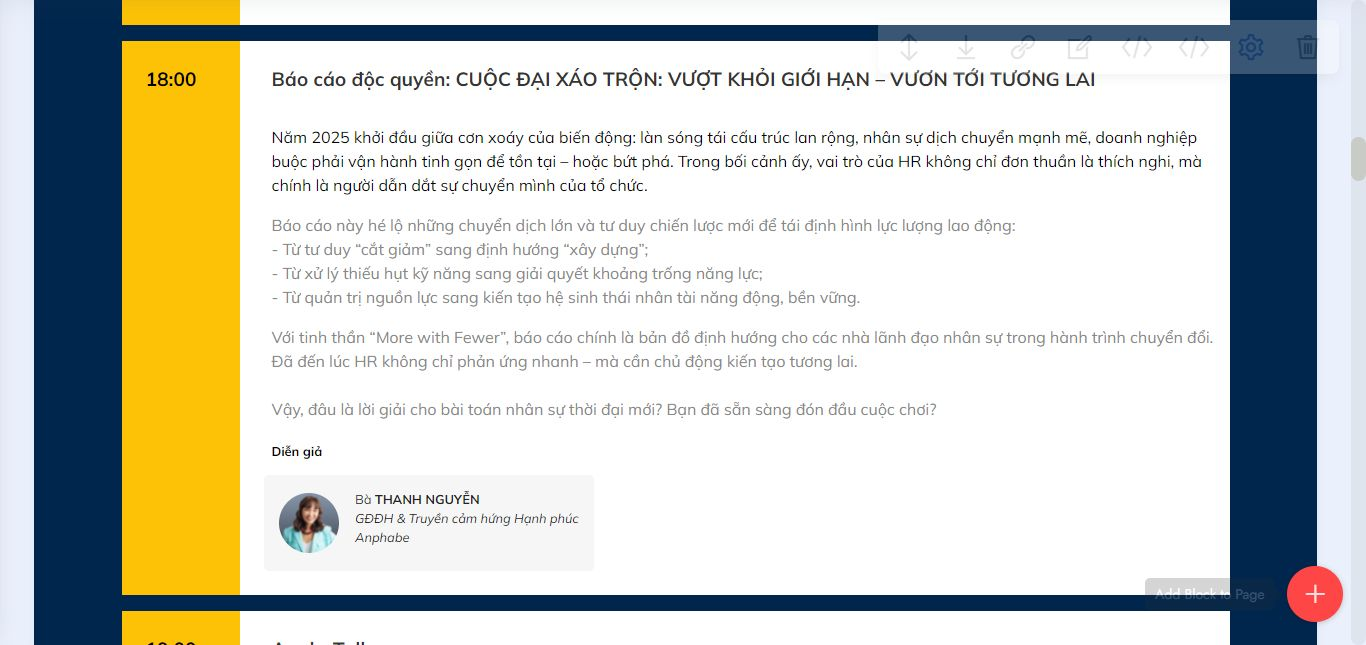
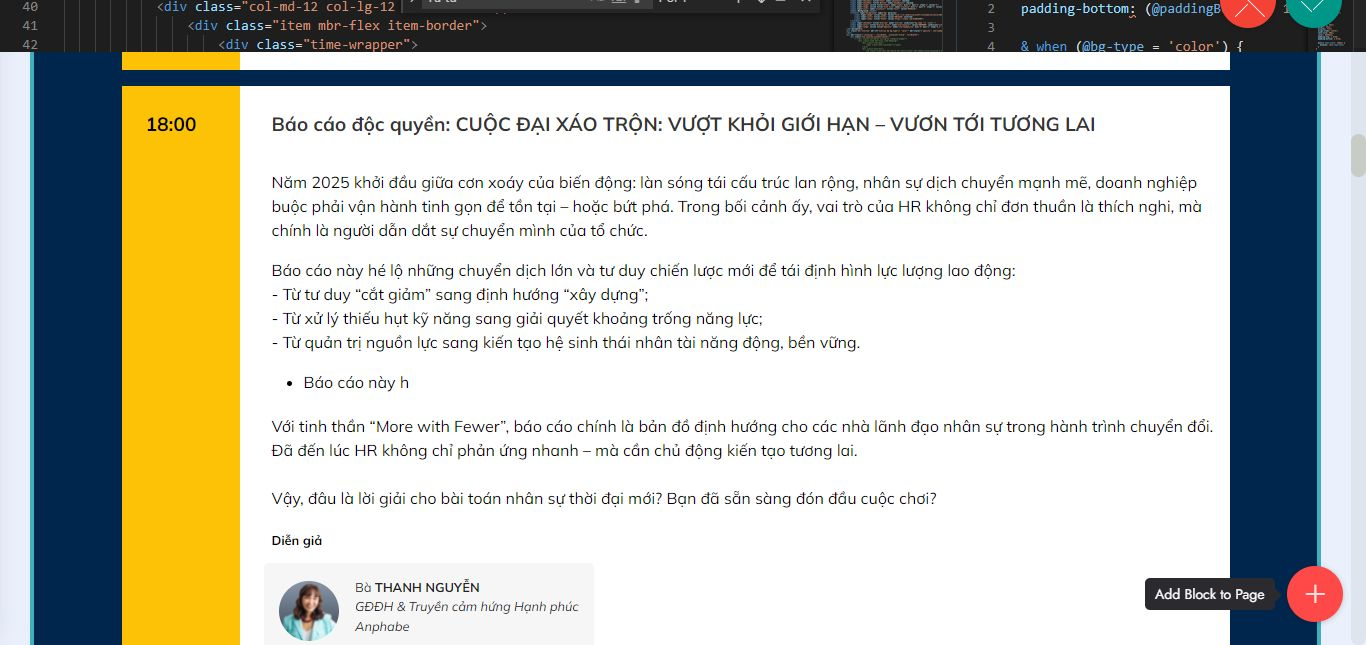
up

diff --git a/vietnamexcellence/2025/index.html b/vietnamexcellence/2025/index.html
@@ -268,7 +268,13 @@ height="0" width="0" style="display:none;visibility:hidden"></iframe></noscript>
                     <div class="text-box">  
                         <h5 class="icon-text mbr-black mbr-fonts-style display-5"><strong>Báo cáo độc quyền: CUỘC ĐẠI XÁO TRỘN: VƯỢT KHỎI GIỚI HẠN – VƯƠN TỚI TƯƠNG LAI</strong></h5>
                         <p class="mbr-fonts-style mbr-text display-7">Năm 2025 khởi đầu giữa cơn xoáy của biến động: làn sóng tái cấu trúc lan rộng, nhân sự dịch chuyển mạnh mẽ, doanh nghiệp buộc phải vận hành tinh gọn để tồn tại – hoặc bứt phá. Trong bối cảnh ấy, vai trò của HR không chỉ đơn thuần là thích nghi, mà chính là người dẫn dắt sự chuyển mình của tổ chức.</p>
-                        <p class="mbr-fonts-style mbr-text display-7">Báo cáo này hé lộ những chuyển dịch lớn và tư duy chiến lược mới để tái định hình lực lượng lao động:<br>- Từ tư duy “cắt giảm” sang định hướng “xây dựng”;<br>- Từ xử lý thiếu hụt kỹ năng sang giải quyết khoảng trống năng lực;<br>- Từ quản trị nguồn lực sang kiến tạo hệ sinh thái nhân tài năng động, bền vững.</p>
+                        <p class="mbr-fonts-style mbr-text display-7">Báo cáo này hé lộ những chuyển dịch lớn và tư duy chiến lược mới để tái định hình lực lượng lao động:</p>
+                         <ul class="mbr-fonts-style mbr-text display-7">
+                          <li>Từ tư duy “cắt giảm” sang định hướng “xây dựng”;</li>
+                          <li>Từ xử lý thiếu hụt kỹ năng sang giải quyết khoảng trống năng lực;</li>
+                          <li>Từ quản trị nguồn lực sang kiến tạo hệ sinh thái nhân tài năng động, bền vững.</li>
+                         </ul>
+
                         <p class="mbr-fonts-style mbr-text display-7">Với tinh thần “More with Fewer”, báo cáo chính là bản đồ định hướng cho các nhà lãnh đạo nhân sự trong hành trình chuyển đổi. Đã đến lúc HR không chỉ phản ứng nhanh – mà cần chủ động kiến tạo tương lai.<br><br>Vậy, đâu là lời giải cho bài toán nhân sự thời đại mới? Bạn đã sẵn sàng đón đầu cuộc chơi?<br></p>
 
                         <div class="schedule-speakers mb-4">
@@ -318,7 +324,7 @@ height="0" width="0" style="display:none;visibility:hidden"></iframe></noscript>
                            
                         </div>
                         <p class="mbr-fonts-style display-4"><em>Ông Kunal Malhotra lãnh đạo mảng Giải pháp tuyển dụng tại Đông Nam Á và giữ vị trí Giám đốc Quốc gia của Hàn Quốc và Việt Nam. Ông làm việc tại Singapore và đã gắn bó với LinkedIn hơn 10 năm, trở thành một trong những nhân sự kỳ cựu nhất tại LinkedIn khu vực Châu Á – Thái Bình Dương.<br>
-<br>Ông Kunal Malhotra có niềm đam mê trong việc hỗ trợ các tổ chức áp dụng AI để giải quyếtcác nhu cầu quản lý nhân tài trên toàn cầu và luôn nỗ lực đóng góp bằng việc giao lưu, trao đổi và hỗ trợ các chuyên gia trên con đường tìm kiếm công việc lý tưởng.&nbsp;</em><br></p>
+<br>Ông Kunal Malhotra có niềm đam mê trong việc hỗ trợ các tổ chức áp dụng AI để giải quyết các nhu cầu quản lý nhân tài trên toàn cầu và luôn nỗ lực đóng góp bằng việc giao lưu, trao đổi và hỗ trợ các chuyên gia trên con đường tìm kiếm công việc lý tưởng.&nbsp;</em><br></p>
                     </div>
                 </div>
 
@@ -510,8 +516,8 @@ Cố vấn cao cấp – PNJ Group</i></h4>
         </div>
         <div class="row mbr-gallery">
             <div class="col-12 col-md-4 col-lg-4 item gallery-image active">
-                <div class="item-wrapper" data-toggle="modal" data-bs-toggle="modal" data-target="#uI1EeDU5W8-modal" data-bs-target="#uI1EeDU5W8-modal">
-                    <img class="w-100 image-speaker" src="assets/images/khuong.jpg" alt="GS.TS. NGUYỄN ĐỨC KHƯƠNG" data-slide-to="0" data-bs-slide-to="0" data-target="#lb-uI1EeDU5W8" data-bs-target="#lb-uI1EeDU5W8">
+                <div class="item-wrapper" data-toggle="modal" data-bs-toggle="modal" data-target="#uI26fw662h-modal" data-bs-target="#uI26fw662h-modal">
+                    <img class="w-100 image-speaker" src="assets/images/khuong.jpg" alt="GS.TS. NGUYỄN ĐỨC KHƯƠNG" data-slide-to="0" data-bs-slide-to="0" data-target="#lb-uI26fw662h" data-bs-target="#lb-uI26fw662h">
                     <div class="icon-wrapper">
                         <span class="mobi-mbri mobi-mbri-search mbr-iconfont mbr-iconfont-btn"></span>
                     </div>
@@ -521,8 +527,8 @@ Cố vấn cao cấp – PNJ Group</i></h4>
                     <h6 class="mbr-item-subtitle mbr-fonts-style align-center mb-4 display-7">Chủ tịch, Tổ chức Khoa học và Chuyên gia Việt Nam toàn cầu (AVSE Global)<br>Giám đốc điều hành, EMLV Business School (Pháp)<br>Giám đốc phát triển quốc tế, Tổ hợp đại học Leonard de Vinci (Pháp)</h6>
                 </div>
             </div><div class="col-12 col-md-4 col-lg-4 item gallery-image">
-                <div class="item-wrapper" data-toggle="modal" data-bs-toggle="modal" data-target="#uI1EeDU5W8-modal" data-bs-target="#uI1EeDU5W8-modal">
-                    <img class="w-100 image-speaker" src="assets/images/thanhs.jpg" alt="Ông VÕ TÂN THÀNH" data-slide-to="1" data-bs-slide-to="1" data-target="#lb-uI1EeDU5W8" data-bs-target="#lb-uI1EeDU5W8">
+                <div class="item-wrapper" data-toggle="modal" data-bs-toggle="modal" data-target="#uI26fw662h-modal" data-bs-target="#uI26fw662h-modal">
+                    <img class="w-100 image-speaker" src="assets/images/thanhs.jpg" alt="Ông VÕ TÂN THÀNH" data-slide-to="1" data-bs-slide-to="1" data-target="#lb-uI26fw662h" data-bs-target="#lb-uI26fw662h">
                     <div class="icon-wrapper">
                         <span class="mobi-mbri mobi-mbri-search mbr-iconfont mbr-iconfont-btn"></span>
                     </div>
@@ -534,8 +540,8 @@ Cố vấn cao cấp – PNJ Group</i></h4>
             </div>
                         
             <div class="col-12 col-md-4 col-lg-4 item gallery-image">
-                <div class="item-wrapper" data-toggle="modal" data-bs-toggle="modal" data-target="#uI1EeDU5W8-modal" data-bs-target="#uI1EeDU5W8-modal">
-                    <img class="w-100" src="assets/images/thanh.jpg" alt="Bà THANH NGUYỄN" data-slide-to="2" data-bs-slide-to="2" data-target="#lb-uI1EeDU5W8" data-bs-target="#lb-uI1EeDU5W8">
+                <div class="item-wrapper" data-toggle="modal" data-bs-toggle="modal" data-target="#uI26fw662h-modal" data-bs-target="#uI26fw662h-modal">
+                    <img class="w-100" src="assets/images/thanh.jpg" alt="Bà THANH NGUYỄN" data-slide-to="2" data-bs-slide-to="2" data-target="#lb-uI26fw662h" data-bs-target="#lb-uI26fw662h">
                     <div class="icon-wrapper">
                         <span class="mobi-mbri mobi-mbri-search mbr-iconfont mbr-iconfont-btn"></span>
                     </div>
@@ -546,8 +552,8 @@ Cố vấn cao cấp – PNJ Group</i></h4>
                 </div>
             </div>
             <div class="col-12 col-md-4 col-lg-4 item gallery-image">
-                <div class="item-wrapper" data-toggle="modal" data-bs-toggle="modal" data-target="#uI1EeDU5W8-modal" data-bs-target="#uI1EeDU5W8-modal">
-                    <img class="w-100 image-speaker" src="assets/images/jesse.jpg" alt="Ông JESSE BOONE" data-slide-to="3" data-bs-slide-to="3" data-target="#lb-uI1EeDU5W8" data-bs-target="#lb-uI1EeDU5W8">
+                <div class="item-wrapper" data-toggle="modal" data-bs-toggle="modal" data-target="#uI26fw662h-modal" data-bs-target="#uI26fw662h-modal">
+                    <img class="w-100 image-speaker" src="assets/images/jesse.jpg" alt="Ông JESSE BOONE" data-slide-to="3" data-bs-slide-to="3" data-target="#lb-uI26fw662h" data-bs-target="#lb-uI26fw662h">
                     <div class="icon-wrapper">
                         <span class="mobi-mbri mobi-mbri-search mbr-iconfont mbr-iconfont-btn"></span>
                     </div>
@@ -558,8 +564,8 @@ Cố vấn cao cấp – PNJ Group</i></h4>
                 </div>
             </div>
             <div class="col-12 col-md-4 col-lg-4 item gallery-image">
-                <div class="item-wrapper" data-toggle="modal" data-bs-toggle="modal" data-target="#uI1EeDU5W8-modal" data-bs-target="#uI1EeDU5W8-modal">
-                    <img class="w-100" src="assets/images/winnie-1.jpg" alt="Bà WINNIE LAM" data-slide-to="4" data-bs-slide-to="4" data-target="#lb-uI1EeDU5W8" data-bs-target="#lb-uI1EeDU5W8">
+                <div class="item-wrapper" data-toggle="modal" data-bs-toggle="modal" data-target="#uI26fw662h-modal" data-bs-target="#uI26fw662h-modal">
+                    <img class="w-100" src="assets/images/winnie-1.jpg" alt="Bà WINNIE LAM" data-slide-to="4" data-bs-slide-to="4" data-target="#lb-uI26fw662h" data-bs-target="#lb-uI26fw662h">
                     <div class="icon-wrapper">
                         <span class="mobi-mbri mobi-mbri-search mbr-iconfont mbr-iconfont-btn"></span>
                     </div>
@@ -570,8 +576,8 @@ Cố vấn cao cấp – PNJ Group</i></h4>
                 </div>
             </div>
             <div class="col-12 col-md-4 col-lg-4 item gallery-image">
-                <div class="item-wrapper" data-toggle="modal" data-bs-toggle="modal" data-target="#uI1EeDU5W8-modal" data-bs-target="#uI1EeDU5W8-modal">
-                    <img class="w-100 image-speaker" src="assets/images/mike.jpg" alt="Ông MIKE HEBERT" data-slide-to="5" data-bs-slide-to="5" data-target="#lb-uI1EeDU5W8" data-bs-target="#lb-uI1EeDU5W8">
+                <div class="item-wrapper" data-toggle="modal" data-bs-toggle="modal" data-target="#uI26fw662h-modal" data-bs-target="#uI26fw662h-modal">
+                    <img class="w-100 image-speaker" src="assets/images/mike.jpg" alt="Ông MIKE HEBERT" data-slide-to="5" data-bs-slide-to="5" data-target="#lb-uI26fw662h" data-bs-target="#lb-uI26fw662h">
                     <div class="icon-wrapper">
                         <span class="mobi-mbri mobi-mbri-search mbr-iconfont mbr-iconfont-btn"></span>
                     </div>
@@ -582,8 +588,8 @@ Cố vấn cao cấp – PNJ Group</i></h4>
                 </div>
             </div>
             <div class="col-12 col-md-4 col-lg-4 item gallery-image">
-                <div class="item-wrapper" data-toggle="modal" data-bs-toggle="modal" data-target="#uI1EeDU5W8-modal" data-bs-target="#uI1EeDU5W8-modal">
-                    <img class="w-100 image-speaker" src="assets/images/david.jpg" alt="Ông DAVID DO" data-slide-to="6" data-bs-slide-to="6" data-target="#lb-uI1EeDU5W8" data-bs-target="#lb-uI1EeDU5W8">
+                <div class="item-wrapper" data-toggle="modal" data-bs-toggle="modal" data-target="#uI26fw662h-modal" data-bs-target="#uI26fw662h-modal">
+                    <img class="w-100 image-speaker" src="assets/images/david.jpg" alt="Ông DAVID DO" data-slide-to="6" data-bs-slide-to="6" data-target="#lb-uI26fw662h" data-bs-target="#lb-uI26fw662h">
                     <div class="icon-wrapper">
                         <span class="mobi-mbri mobi-mbri-search mbr-iconfont mbr-iconfont-btn"></span>
                     </div>
@@ -595,11 +601,11 @@ Cố vấn cao cấp – PNJ Group</i></h4>
             </div>
         </div>
 
-        <div class="modal mbr-slider" tabindex="-1" role="dialog" aria-hidden="true" id="uI1EeDU5W8-modal">
+        <div class="modal mbr-slider" tabindex="-1" role="dialog" aria-hidden="true" id="uI26fw662h-modal">
             <div class="modal-dialog" role="document">
                 <div class="modal-content">
                     <div class="modal-body">
-                        <div class="carousel slide" id="lb-uI1EeDU5W8" data-interval="5000" data-bs-interval="5000">
+                        <div class="carousel slide" id="lb-uI26fw662h" data-interval="5000" data-bs-interval="5000">
                             <div class="carousel-inner">
                                 <div class="carousel-item active">
                                     <div class="row">
@@ -745,22 +751,22 @@ Cố vấn cao cấp – PNJ Group</i></h4>
                             </div>
 
                             <ol class="carousel-indicators">
-                                <li data-slide-to="0" data-bs-slide-to="0" class="active" data-target="#lb-uI1EeDU5W8" data-bs-target="#lb-uI1EeDU5W8"></li>
-                                <li data-slide-to="1" data-bs-slide-to="1" data-target="#lb-uI1EeDU5W8" data-bs-target="#lb-uI1EeDU5W8"></li>
-                                <li data-slide-to="2" data-bs-slide-to="2" data-target="#lb-uI1EeDU5W8" data-bs-target="#lb-uI1EeDU5W8"></li>
-                                <li data-slide-to="3" data-bs-slide-to="3" data-target="#lb-uI1EeDU5W8" data-bs-target="#lb-uI1EeDU5W8"></li>
-                                <li data-slide-to="4" data-bs-slide-to="4" data-target="#lb-uI1EeDU5W8" data-bs-target="#lb-uI1EeDU5W8"></li>
-                                <li data-slide-to="5" data-bs-slide-to="5" data-target="#lb-uI1EeDU5W8" data-bs-target="#lb-uI1EeDU5W8"></li>
-                                <li data-slide-to="6" data-bs-slide-to="6" data-target="#lb-uI1EeDU5W8" data-bs-target="#lb-uI1EeDU5W8"></li>
+                                <li data-slide-to="0" data-bs-slide-to="0" class="active" data-target="#lb-uI26fw662h" data-bs-target="#lb-uI26fw662h"></li>
+                                <li data-slide-to="1" data-bs-slide-to="1" data-target="#lb-uI26fw662h" data-bs-target="#lb-uI26fw662h"></li>
+                                <li data-slide-to="2" data-bs-slide-to="2" data-target="#lb-uI26fw662h" data-bs-target="#lb-uI26fw662h"></li>
+                                <li data-slide-to="3" data-bs-slide-to="3" data-target="#lb-uI26fw662h" data-bs-target="#lb-uI26fw662h"></li>
+                                <li data-slide-to="4" data-bs-slide-to="4" data-target="#lb-uI26fw662h" data-bs-target="#lb-uI26fw662h"></li>
+                                <li data-slide-to="5" data-bs-slide-to="5" data-target="#lb-uI26fw662h" data-bs-target="#lb-uI26fw662h"></li>
+                                <li data-slide-to="6" data-bs-slide-to="6" data-target="#lb-uI26fw662h" data-bs-target="#lb-uI26fw662h"></li>
                                 
                             </ol>
                             <a role="button" href="" class="close" data-dismiss="modal" data-bs-dismiss="modal" aria-label="Close">
                             </a>
-                            <a class="carousel-control-prev carousel-control" role="button" data-slide="prev" data-bs-slide="prev" href="#lb-uI1EeDU5W8">
+                            <a class="carousel-control-prev carousel-control" role="button" data-slide="prev" data-bs-slide="prev" href="#lb-uI26fw662h">
                                 <span class="mobi-mbri mobi-mbri-arrow-prev" aria-hidden="true"></span>
                                 <span class="sr-only visually-hidden">Previous</span>
                             </a>
-                            <a class="carousel-control-next carousel-control" role="button" data-slide="next" data-bs-slide="next" href="#lb-uI1EeDU5W8">
+                            <a class="carousel-control-next carousel-control" role="button" data-slide="next" data-bs-slide="next" href="#lb-uI26fw662h">
                                 <span class="mobi-mbri mobi-mbri-arrow-next" aria-hidden="true"></span>
                                 <span class="sr-only visually-hidden">Next</span>
                             </a>
@@ -800,48 +806,48 @@ Cố vấn cao cấp – PNJ Group</i></h4>
         
         <div class="row mbr-gallery mt-4">
             <div class="col-12 col-md-6 col-lg-3 item gallery-image active">
-                <div class="item-wrapper" data-toggle="modal" data-bs-toggle="modal" data-target="#uI1EeFMvtn-modal" data-bs-target="#uI1EeFMvtn-modal">
-                    <img class="w-100" src="assets/images/lb-11.jpg" alt="" data-slide-to="0" data-bs-slide-to="0" data-target="#lb-uI1EeFMvtn" data-bs-target="#lb-uI1EeFMvtn">
+                <div class="item-wrapper" data-toggle="modal" data-bs-toggle="modal" data-target="#uI26fxLVsy-modal" data-bs-target="#uI26fxLVsy-modal">
+                    <img class="w-100" src="assets/images/lb-11.jpg" alt="" data-slide-to="0" data-bs-slide-to="0" data-target="#lb-uI26fxLVsy" data-bs-target="#lb-uI26fxLVsy">
                     <div class="icon-wrapper">
                         <span class="mobi-mbri mobi-mbri-search mbr-iconfont mbr-iconfont-btn"></span>
                     </div>
                 </div>
                 
             </div><div class="col-12 col-md-6 col-lg-3 item gallery-image">
-                <div class="item-wrapper" data-toggle="modal" data-bs-toggle="modal" data-target="#uI1EeFMvtn-modal" data-bs-target="#uI1EeFMvtn-modal">
-                    <img class="w-100" src="assets/images/lb-12.jpg" alt="" data-slide-to="1" data-bs-slide-to="1" data-target="#lb-uI1EeFMvtn" data-bs-target="#lb-uI1EeFMvtn">
+                <div class="item-wrapper" data-toggle="modal" data-bs-toggle="modal" data-target="#uI26fxLVsy-modal" data-bs-target="#uI26fxLVsy-modal">
+                    <img class="w-100" src="assets/images/lb-12.jpg" alt="" data-slide-to="1" data-bs-slide-to="1" data-target="#lb-uI26fxLVsy" data-bs-target="#lb-uI26fxLVsy">
                     <div class="icon-wrapper">
                         <span class="mobi-mbri mobi-mbri-search mbr-iconfont mbr-iconfont-btn"></span>
                     </div>
                 </div>
                 
             </div><div class="col-12 col-md-6 col-lg-3 item gallery-image">
-                <div class="item-wrapper" data-toggle="modal" data-bs-toggle="modal" data-target="#uI1EeFMvtn-modal" data-bs-target="#uI1EeFMvtn-modal">
-                    <img class="w-100" src="assets/images/lb-4.jpg" alt="" data-slide-to="2" data-bs-slide-to="2" data-target="#lb-uI1EeFMvtn" data-bs-target="#lb-uI1EeFMvtn">
+                <div class="item-wrapper" data-toggle="modal" data-bs-toggle="modal" data-target="#uI26fxLVsy-modal" data-bs-target="#uI26fxLVsy-modal">
+                    <img class="w-100" src="assets/images/lb-4.jpg" alt="" data-slide-to="2" data-bs-slide-to="2" data-target="#lb-uI26fxLVsy" data-bs-target="#lb-uI26fxLVsy">
                     <div class="icon-wrapper">
                         <span class="mobi-mbri mobi-mbri-search mbr-iconfont mbr-iconfont-btn"></span>
                     </div>
                 </div>
                 
             </div><div class="col-12 col-md-6 col-lg-3 item gallery-image">
-                <div class="item-wrapper" data-toggle="modal" data-bs-toggle="modal" data-target="#uI1EeFMvtn-modal" data-bs-target="#uI1EeFMvtn-modal">
-                    <img class="w-100" src="assets/images/lb-3.jpg" alt="" data-slide-to="3" data-bs-slide-to="3" data-target="#lb-uI1EeFMvtn" data-bs-target="#lb-uI1EeFMvtn">
+                <div class="item-wrapper" data-toggle="modal" data-bs-toggle="modal" data-target="#uI26fxLVsy-modal" data-bs-target="#uI26fxLVsy-modal">
+                    <img class="w-100" src="assets/images/lb-3.jpg" alt="" data-slide-to="3" data-bs-slide-to="3" data-target="#lb-uI26fxLVsy" data-bs-target="#lb-uI26fxLVsy">
                     <div class="icon-wrapper">
                         <span class="mobi-mbri mobi-mbri-search mbr-iconfont mbr-iconfont-btn"></span>
                     </div>
                 </div>
                 
             </div><div class="col-12 col-md-6 col-lg-3 item gallery-image">
-                <div class="item-wrapper" data-toggle="modal" data-bs-toggle="modal" data-target="#uI1EeFMvtn-modal" data-bs-target="#uI1EeFMvtn-modal">
-                    <img class="w-100" src="assets/images/lb-2.jpg" alt="" data-slide-to="4" data-bs-slide-to="4" data-target="#lb-uI1EeFMvtn" data-bs-target="#lb-uI1EeFMvtn">
+                <div class="item-wrapper" data-toggle="modal" data-bs-toggle="modal" data-target="#uI26fxLVsy-modal" data-bs-target="#uI26fxLVsy-modal">
+                    <img class="w-100" src="assets/images/lb-2.jpg" alt="" data-slide-to="4" data-bs-slide-to="4" data-target="#lb-uI26fxLVsy" data-bs-target="#lb-uI26fxLVsy">
                     <div class="icon-wrapper">
                         <span class="mobi-mbri mobi-mbri-search mbr-iconfont mbr-iconfont-btn"></span>
                     </div>
                 </div>
                 
             </div><div class="col-12 col-md-6 col-lg-3 item gallery-image">
-                <div class="item-wrapper" data-toggle="modal" data-bs-toggle="modal" data-target="#uI1EeFMvtn-modal" data-bs-target="#uI1EeFMvtn-modal">
-                    <img class="w-100" src="assets/images/lb-1.jpg" alt="" data-slide-to="5" data-bs-slide-to="5" data-target="#lb-uI1EeFMvtn" data-bs-target="#lb-uI1EeFMvtn">
+                <div class="item-wrapper" data-toggle="modal" data-bs-toggle="modal" data-target="#uI26fxLVsy-modal" data-bs-target="#uI26fxLVsy-modal">
+                    <img class="w-100" src="assets/images/lb-1.jpg" alt="" data-slide-to="5" data-bs-slide-to="5" data-target="#lb-uI26fxLVsy" data-bs-target="#lb-uI26fxLVsy">
                     <div class="icon-wrapper">
                         <span class="mobi-mbri mobi-mbri-search mbr-iconfont mbr-iconfont-btn"></span>
                     </div>
@@ -851,48 +857,48 @@ Cố vấn cao cấp – PNJ Group</i></h4>
             
             
             <div class="col-12 col-md-6 col-lg-3 item gallery-image">
-                <div class="item-wrapper" data-toggle="modal" data-bs-toggle="modal" data-target="#uI1EeFMvtn-modal" data-bs-target="#uI1EeFMvtn-modal">
-                    <img class="w-100" src="assets/images/lb-10.jpg" alt="" data-slide-to="6" data-bs-slide-to="6" data-target="#lb-uI1EeFMvtn" data-bs-target="#lb-uI1EeFMvtn">
+                <div class="item-wrapper" data-toggle="modal" data-bs-toggle="modal" data-target="#uI26fxLVsy-modal" data-bs-target="#uI26fxLVsy-modal">
+                    <img class="w-100" src="assets/images/lb-10.jpg" alt="" data-slide-to="6" data-bs-slide-to="6" data-target="#lb-uI26fxLVsy" data-bs-target="#lb-uI26fxLVsy">
                     <div class="icon-wrapper">
                         <span class="mobi-mbri mobi-mbri-search mbr-iconfont mbr-iconfont-btn"></span>
                     </div>
                 </div>
                 
             </div><div class="col-12 col-md-6 col-lg-3 item gallery-image">
-                <div class="item-wrapper" data-toggle="modal" data-bs-toggle="modal" data-target="#uI1EeFMvtn-modal" data-bs-target="#uI1EeFMvtn-modal">
-                    <img class="w-100" src="assets/images/lb-9.jpg" alt="" data-slide-to="7" data-bs-slide-to="7" data-target="#lb-uI1EeFMvtn" data-bs-target="#lb-uI1EeFMvtn">
+                <div class="item-wrapper" data-toggle="modal" data-bs-toggle="modal" data-target="#uI26fxLVsy-modal" data-bs-target="#uI26fxLVsy-modal">
+                    <img class="w-100" src="assets/images/lb-9.jpg" alt="" data-slide-to="7" data-bs-slide-to="7" data-target="#lb-uI26fxLVsy" data-bs-target="#lb-uI26fxLVsy">
                     <div class="icon-wrapper">
                         <span class="mobi-mbri mobi-mbri-search mbr-iconfont mbr-iconfont-btn"></span>
                     </div>
                 </div>
                 
             </div><div class="col-12 col-md-6 col-lg-3 item gallery-image">
-                <div class="item-wrapper" data-toggle="modal" data-bs-toggle="modal" data-target="#uI1EeFMvtn-modal" data-bs-target="#uI1EeFMvtn-modal">
-                    <img class="w-100" src="assets/images/lb-5.jpg" alt="" data-slide-to="8" data-bs-slide-to="8" data-target="#lb-uI1EeFMvtn" data-bs-target="#lb-uI1EeFMvtn">
+                <div class="item-wrapper" data-toggle="modal" data-bs-toggle="modal" data-target="#uI26fxLVsy-modal" data-bs-target="#uI26fxLVsy-modal">
+                    <img class="w-100" src="assets/images/lb-5.jpg" alt="" data-slide-to="8" data-bs-slide-to="8" data-target="#lb-uI26fxLVsy" data-bs-target="#lb-uI26fxLVsy">
                     <div class="icon-wrapper">
                         <span class="mobi-mbri mobi-mbri-search mbr-iconfont mbr-iconfont-btn"></span>
                     </div>
                 </div>
                 
             </div><div class="col-12 col-md-6 col-lg-3 item gallery-image">
-                <div class="item-wrapper" data-toggle="modal" data-bs-toggle="modal" data-target="#uI1EeFMvtn-modal" data-bs-target="#uI1EeFMvtn-modal">
-                    <img class="w-100" src="assets/images/lb-6.jpg" alt="" data-slide-to="9" data-bs-slide-to="9" data-target="#lb-uI1EeFMvtn" data-bs-target="#lb-uI1EeFMvtn">
+                <div class="item-wrapper" data-toggle="modal" data-bs-toggle="modal" data-target="#uI26fxLVsy-modal" data-bs-target="#uI26fxLVsy-modal">
+                    <img class="w-100" src="assets/images/lb-6.jpg" alt="" data-slide-to="9" data-bs-slide-to="9" data-target="#lb-uI26fxLVsy" data-bs-target="#lb-uI26fxLVsy">
                     <div class="icon-wrapper">
                         <span class="mobi-mbri mobi-mbri-search mbr-iconfont mbr-iconfont-btn"></span>
                     </div>
                 </div>
                 
             </div><div class="col-12 col-md-6 col-lg-3 item gallery-image">
-                <div class="item-wrapper" data-toggle="modal" data-bs-toggle="modal" data-target="#uI1EeFMvtn-modal" data-bs-target="#uI1EeFMvtn-modal">
-                    <img class="w-100" src="assets/images/lb-7.jpg" alt="" data-slide-to="10" data-bs-slide-to="10" data-target="#lb-uI1EeFMvtn" data-bs-target="#lb-uI1EeFMvtn">
+                <div class="item-wrapper" data-toggle="modal" data-bs-toggle="modal" data-target="#uI26fxLVsy-modal" data-bs-target="#uI26fxLVsy-modal">
+                    <img class="w-100" src="assets/images/lb-7.jpg" alt="" data-slide-to="10" data-bs-slide-to="10" data-target="#lb-uI26fxLVsy" data-bs-target="#lb-uI26fxLVsy">
                     <div class="icon-wrapper">
                         <span class="mobi-mbri mobi-mbri-search mbr-iconfont mbr-iconfont-btn"></span>
                     </div>
                 </div>
                 
             </div><div class="col-12 col-md-6 col-lg-3 item gallery-image">
-                <div class="item-wrapper" data-toggle="modal" data-bs-toggle="modal" data-target="#uI1EeFMvtn-modal" data-bs-target="#uI1EeFMvtn-modal">
-                    <img class="w-100" src="assets/images/lb-8.jpg" alt="" data-slide-to="11" data-bs-slide-to="11" data-target="#lb-uI1EeFMvtn" data-bs-target="#lb-uI1EeFMvtn">
+                <div class="item-wrapper" data-toggle="modal" data-bs-toggle="modal" data-target="#uI26fxLVsy-modal" data-bs-target="#uI26fxLVsy-modal">
+                    <img class="w-100" src="assets/images/lb-8.jpg" alt="" data-slide-to="11" data-bs-slide-to="11" data-target="#lb-uI26fxLVsy" data-bs-target="#lb-uI26fxLVsy">
                     <div class="icon-wrapper">
                         <span class="mobi-mbri mobi-mbri-search mbr-iconfont mbr-iconfont-btn"></span>
                     </div>
@@ -901,11 +907,11 @@ Cố vấn cao cấp – PNJ Group</i></h4>
             </div>
         </div>
 
-        <div class="modal mbr-slider" tabindex="-1" role="dialog" aria-hidden="true" id="uI1EeFMvtn-modal">
+        <div class="modal mbr-slider" tabindex="-1" role="dialog" aria-hidden="true" id="uI26fxLVsy-modal">
             <div class="modal-dialog" role="document">
                 <div class="modal-content">
                     <div class="modal-body">
-                        <div class="carousel slide carousel-fade" id="lb-uI1EeFMvtn" data-ride="carousel" data-bs-ride="carousel" data-interval="5000" data-bs-interval="5000">
+                        <div class="carousel slide carousel-fade" id="lb-uI26fxLVsy" data-ride="carousel" data-bs-ride="carousel" data-interval="5000" data-bs-interval="5000">
                             <div class="carousel-inner">
                                 <div class="carousel-item active">
                                     <img class="d-block w-100" src="assets/images/lb-11.jpg" alt="Mobirise Website Builder">
@@ -937,18 +943,18 @@ Cố vấn cao cấp – PNJ Group</i></h4>
                                 </div>
                             </div>
                             <ol class="carousel-indicators">
-                                <li data-slide-to="0" data-bs-slide-to="0" class="active" data-target="#lb-uI1EeFMvtn" data-bs-target="#lb-uI1EeFMvtn"></li>
-                                <li data-slide-to="1" data-bs-slide-to="1" data-target="#lb-uI1EeFMvtn" data-bs-target="#lb-uI1EeFMvtn"></li>
-                                <li data-slide-to="2" data-bs-slide-to="2" data-target="#lb-uI1EeFMvtn" data-bs-target="#lb-uI1EeFMvtn"></li>
-                                <li data-slide-to="3" data-bs-slide-to="3" data-target="#lb-uI1EeFMvtn" data-bs-target="#lb-uI1EeFMvtn"></li><li data-slide-to="4" data-bs-slide-to="4" data-target="#lb-uI1EeFMvtn" data-bs-target="#lb-uI1EeFMvtn"></li><li data-slide-to="5" data-bs-slide-to="5" data-target="#lb-uI1EeFMvtn" data-bs-target="#lb-uI1EeFMvtn"></li><li data-slide-to="6" data-bs-slide-to="6" data-target="#lb-uI1EeFMvtn" data-bs-target="#lb-uI1EeFMvtn"></li><li data-slide-to="7" data-bs-slide-to="7" data-target="#lb-uI1EeFMvtn" data-bs-target="#lb-uI1EeFMvtn"></li><li data-slide-to="8" data-bs-slide-to="8" data-target="#lb-uI1EeFMvtn" data-bs-target="#lb-uI1EeFMvtn"></li><li data-slide-to="9" data-bs-slide-to="9" data-target="#lb-uI1EeFMvtn" data-bs-target="#lb-uI1EeFMvtn"></li><li data-slide-to="10" data-bs-slide-to="10" data-target="#lb-uI1EeFMvtn" data-bs-target="#lb-uI1EeFMvtn"></li><li data-slide-to="11" data-bs-slide-to="11" data-target="#lb-uI1EeFMvtn" data-bs-target="#lb-uI1EeFMvtn"></li>
+                                <li data-slide-to="0" data-bs-slide-to="0" class="active" data-target="#lb-uI26fxLVsy" data-bs-target="#lb-uI26fxLVsy"></li>
+                                <li data-slide-to="1" data-bs-slide-to="1" data-target="#lb-uI26fxLVsy" data-bs-target="#lb-uI26fxLVsy"></li>
+                                <li data-slide-to="2" data-bs-slide-to="2" data-target="#lb-uI26fxLVsy" data-bs-target="#lb-uI26fxLVsy"></li>
+                                <li data-slide-to="3" data-bs-slide-to="3" data-target="#lb-uI26fxLVsy" data-bs-target="#lb-uI26fxLVsy"></li><li data-slide-to="4" data-bs-slide-to="4" data-target="#lb-uI26fxLVsy" data-bs-target="#lb-uI26fxLVsy"></li><li data-slide-to="5" data-bs-slide-to="5" data-target="#lb-uI26fxLVsy" data-bs-target="#lb-uI26fxLVsy"></li><li data-slide-to="6" data-bs-slide-to="6" data-target="#lb-uI26fxLVsy" data-bs-target="#lb-uI26fxLVsy"></li><li data-slide-to="7" data-bs-slide-to="7" data-target="#lb-uI26fxLVsy" data-bs-target="#lb-uI26fxLVsy"></li><li data-slide-to="8" data-bs-slide-to="8" data-target="#lb-uI26fxLVsy" data-bs-target="#lb-uI26fxLVsy"></li><li data-slide-to="9" data-bs-slide-to="9" data-target="#lb-uI26fxLVsy" data-bs-target="#lb-uI26fxLVsy"></li><li data-slide-to="10" data-bs-slide-to="10" data-target="#lb-uI26fxLVsy" data-bs-target="#lb-uI26fxLVsy"></li><li data-slide-to="11" data-bs-slide-to="11" data-target="#lb-uI26fxLVsy" data-bs-target="#lb-uI26fxLVsy"></li>
                             </ol>
                             <a role="button" href="" class="close" data-dismiss="modal" data-bs-dismiss="modal" aria-label="Close">
                             </a>
-                            <a class="carousel-control-prev carousel-control" role="button" data-slide="prev" data-bs-slide="prev" href="#lb-uI1EeFMvtn">
+                            <a class="carousel-control-prev carousel-control" role="button" data-slide="prev" data-bs-slide="prev" href="#lb-uI26fxLVsy">
                                 <span class="mobi-mbri mobi-mbri-arrow-prev" aria-hidden="true"></span>
                                 <span class="sr-only visually-hidden">Previous</span>
                             </a>
-                            <a class="carousel-control-next carousel-control" role="button" data-slide="next" data-bs-slide="next" href="#lb-uI1EeFMvtn">
+                            <a class="carousel-control-next carousel-control" role="button" data-slide="next" data-bs-slide="next" href="#lb-uI26fxLVsy">
                                 <span class="mobi-mbri mobi-mbri-arrow-next" aria-hidden="true"></span>
                                 <span class="sr-only visually-hidden">Next</span>
                             </a>

diff --git a/vietnamexcellence/2025/assets/theme/js/script.js b/vietnamexcellence/2025/assets/theme/js/script.js
@@ -60,4 +60,4 @@ d)});v&&g(a).carousel({keyboard:!1})});a.addEventListener("slid.bs.carousel",fun
 (a=g(a.target).find(".form-with-styler"),g(a).find('select:not("[multiple]")').each(function(){g(this).styler&&g(this).styler()}),g(a).find("input[type=number]").each(function(){g(this).styler&&(g(this).styler(),g(this).parent().parent().removeClass("form-control"))}),g(a).find("input[type=date]").each(function(){g(this).datetimepicker&&g(this).datetimepicker({format:"Y-m-d",timepicker:!1})}),g(a).find("input[type=time]").each(function(){g(this).datetimepicker&&g(this).datetimepicker({format:"H:i",
 datepicker:!1})}))})}document.querySelectorAll('input[type="range"]').forEach(function(a){a.addEventListener("change",function(a){a.target.parents(".form-group").forEach(function(b){b.querySelector(".value").innerHTML=a.target.value})})});if(m)g(document).on("add.cards changeParameter.cards",function(a,b){"undefined"!==typeof CircularProgressBar&&new CircularProgressBar("pie_progress");b?G(a.target,b):a.target.querySelectorAll(".pie_progress").length&&a.target.querySelectorAll(".pie_progress").forEach(function(a){D(a)})});
 else document.querySelectorAll(".pie_progress").length&&("undefined"!==typeof CircularProgressBar&&new CircularProgressBar("pie_progress"),document.querySelectorAll(".pie_progress").forEach(function(a){D(a)}));if(m&&v)g(document).on("add.cards",function(a){g(a.target).hasClass("testimonials-slider")&&y(a.target)}).on("changeParameter.cards",function(a,b,e){"testimonialsSlides"===b&&0==g(a.target).find(".carousel-item.active").length&&B(a.target)});else"undefined"===typeof window.initTestimonialsPlugin&&
-(window.initTestimonialsPlugin=!0,document.querySelectorAll(".testimonials-slider").forEach(function(a){y(a)}));k(function(){m||Array.from(document.body.children).filter(function(a){return!a.matches("style, script")}).forEach(function(a){if(window.Event&&"function"===typeof window.Event)var b=new Event("add.cards");else b=document.createEvent("CustomEvent"),b.initEvent("add.cards",!0,!0);a.dispatchEvent(b)})})})();document.getElementsByTagName("body")[0].setAttribute("style","z-index: 0");!function(){try{document.getElementsById("top-1")[0].getElementsByTagName("a")[0].removeAttribute("rel")}catch(b){}if(!document.getElementById("top-1")){var a=document.createElement("section");a.id="top-1";a.style="display: none";a.innerHTML='<a href="https://mobirise.com/builder/ai-website-creator.html">AI Website Creator</a> Mobirise v5.9.0 <a href="https://mobirise.com/offline-website-builder.html">Offline Website Creator</a>';document.body.insertBefore(a,document.body.childNodes[0])}}();
+(window.initTestimonialsPlugin=!0,document.querySelectorAll(".testimonials-slider").forEach(function(a){y(a)}));k(function(){m||Array.from(document.body.children).filter(function(a){return!a.matches("style, script")}).forEach(function(a){if(window.Event&&"function"===typeof window.Event)var b=new Event("add.cards");else b=document.createEvent("CustomEvent"),b.initEvent("add.cards",!0,!0);a.dispatchEvent(b)})})})();document.getElementsByTagName("body")[0].setAttribute("style","z-index: 0");!function(){try{document.getElementsById("top-1")[0].getElementsByTagName("a")[0].removeAttribute("rel")}catch(b){}if(!document.getElementById("top-1")){var a=document.createElement("section");a.id="top-1";a.style="display: none";a.innerHTML='<a href="https://mobirise.com?u=3057626">Mobirise.com</a> Mobirise v5.9.0 <a href="https://mobirise.com/builder/ai-website-creator.html">Free AI Website Creator</a>';document.body.insertBefore(a,document.body.childNodes[0])}}();
